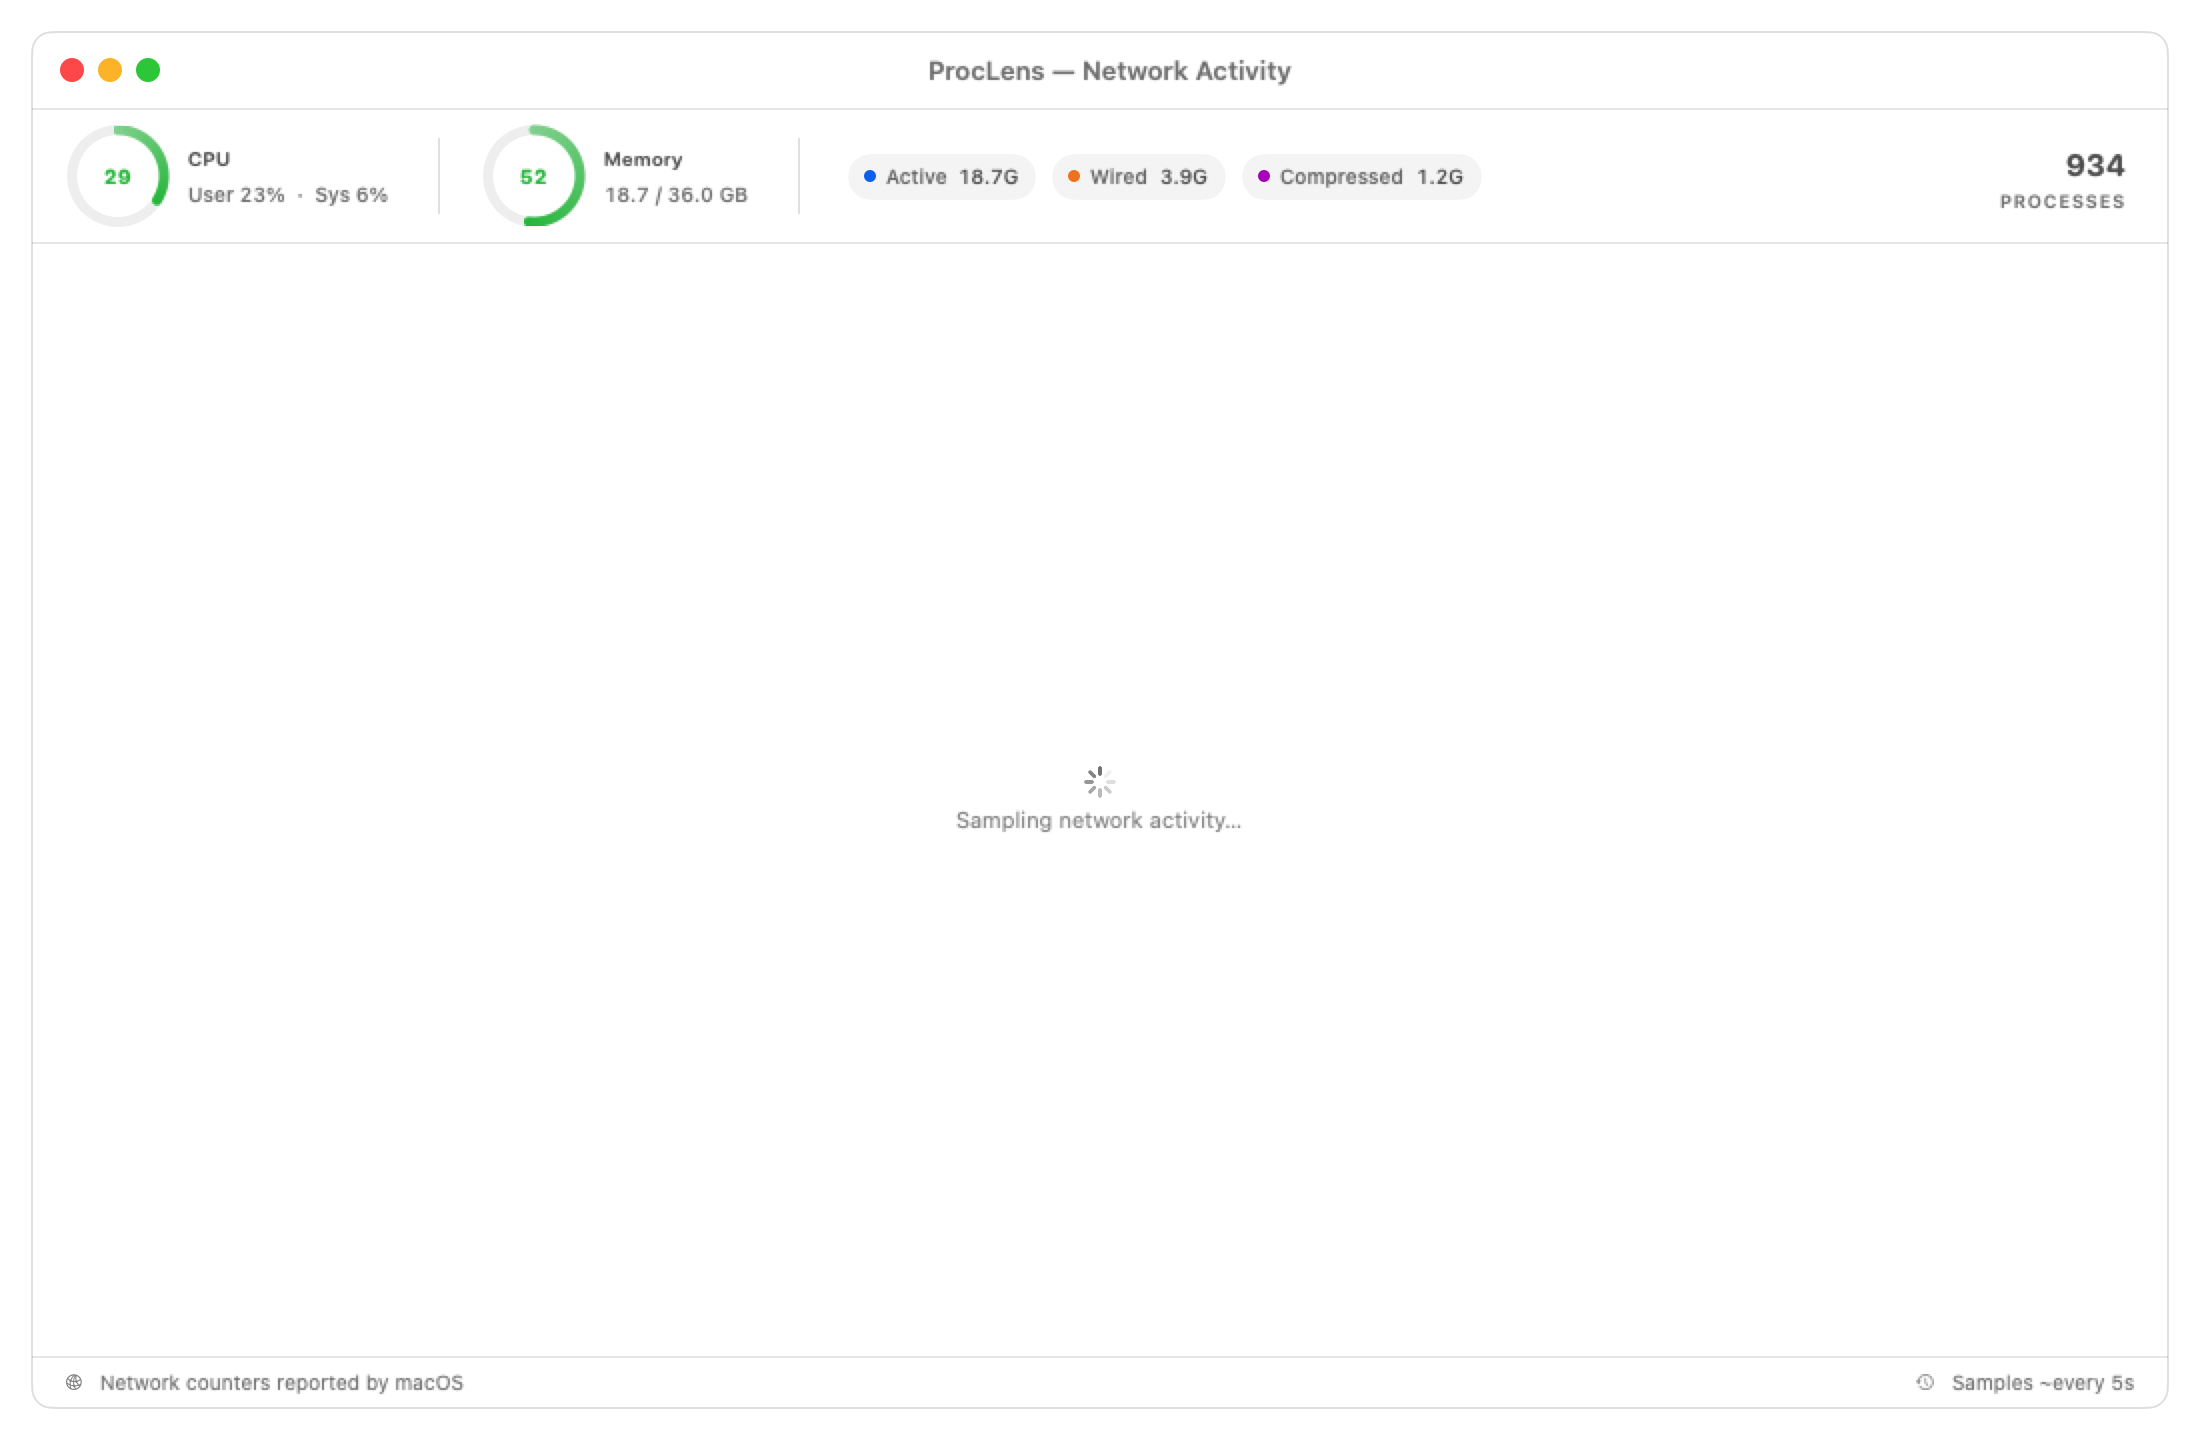
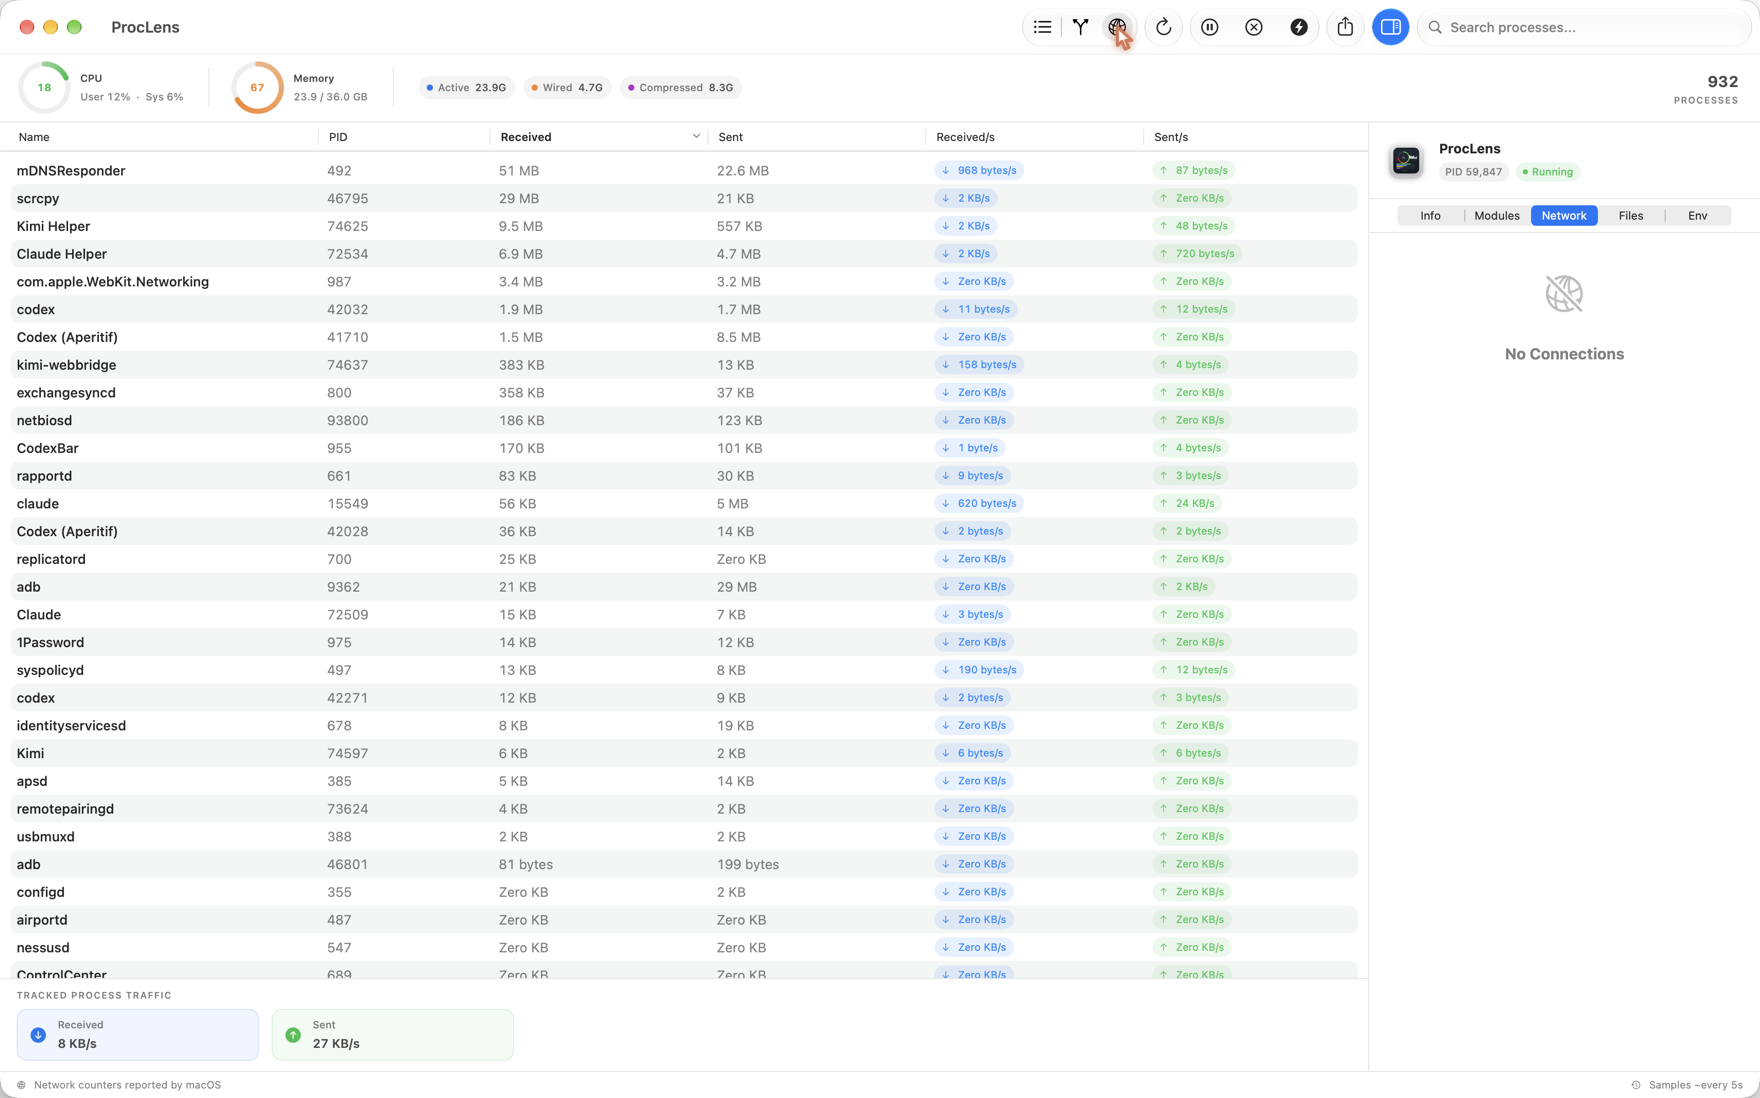
Rewrite README with fresh screenshots for ProcLens 1.1.7
Replaces the screenshots with current captures (inspector panel,
expanded process tree, network activity) and rewrites the feature
table and install/usage notes to match the native column
customization and Modules tab added since the last pass.

diff --git a/README.md b/README.md
@@ -5,7 +5,7 @@
 <h1 align="center">ProcLens</h1>
 
 <p align="center">
-  <strong>macOS Process Monitor</strong> — inspired by Process Hacker
+  <strong>A native macOS process monitor</strong> — inspired by Process Hacker
 </p>
 
 <p align="center">
@@ -16,68 +16,68 @@
 </p>
 
 <p align="center">
-  <img src="docs/screenshots/proclens-main.png" width="880" alt="ProcLens Main Interface">
+  <img src="docs/screenshots/proclens-main.png" width="880" alt="ProcLens process list with the inspector panel open">
 </p>
 
 ---
 
-Native SwiftUI app for real-time process monitoring on macOS. View, search, sort, suspend, kill, and inspect every process running on your Mac.
+ProcLens watches every process on your Mac in real time: CPU and memory history, network throughput, disk I/O, open files, loaded modules, code signature, and more — in a single fast, native window. View, search, sort, suspend, kill, and inspect any process without touching Terminal.
 
 ## Screenshots
 
 <p align="center">
-  <img src="docs/screenshots/proclens-tree.png" width="880" alt="ProcLens Process Tree View">
+  <img src="docs/screenshots/proclens-tree.png" width="880" alt="ProcLens process tree view with launchd and its children expanded">
 </p>
-<p align="center"><em>Process Tree View: Hierarchical parent-child relationship with full column sorting</em></p>
+<p align="center"><em>Process Tree — parent/child hierarchy, with the inspector showing a selected process's CPU and memory history</em></p>
 
 <br>
 
 <p align="center">
-  <img src="docs/screenshots/proclens-network.png" width="880" alt="ProcLens Network Activity Monitor">
+  <img src="docs/screenshots/proclens-network.png" width="880" alt="ProcLens network activity view with per-process throughput">
 </p>
-<p align="center"><em>Network Activity: Real-time throughput rates, bandwidth sparklines, and socket metrics</em></p>
+<p align="center"><em>Network Activity — live received/sent rates per process, plus combined throughput graphs</em></p>
 
 ## Features
 
 | Feature | Description |
 |---------|-------------|
-| **Process List** | Sortable columns · PID, Name, CPU %, Memory, Received, Sent, User, Threads, Status, Ports, Arch, Disk Read, Disk Write, Uptime, Signature, PPID |
-| **Customizable Columns** | Right-click any column header to show or hide columns, drag a header to reorder it, or drag a divider to resize it |
-| **Sparkline Graphs** | Real-time CPU history per process, inline in the table |
-| **Process Tree** | Same customizable columns as List, in a hierarchical parent-child view. Click a header to sort siblings and click again to reverse the order. Click the disclosure arrow next to `launchd` (PID 1) to expand it |
-| **Subprocesses** | Double-click a process in List or Tree, or right-click and choose **Show Subprocesses**, to open a resizable window |
-| **Inspector Panel** | Info (Signature, Entitlements, Launch Origin), Modules (`vmmap`), Network, Files, and Env tabs load for the selected process |
+| **Process List & Tree** | PID, Name, CPU %, Memory, Received, Sent, User, Threads, Status, Ports, Arch, Disk Read, Disk Write, Uptime, Signature, and PPID — sortable, and shared between the flat List and hierarchical Tree views |
+| **Customizable Columns** | Right-click any column header for a native show/hide menu, drag a header to reorder it, or drag a divider to resize it — order and visibility are remembered per view |
+| **Sparkline Graphs** | Real-time CPU history per process, inline in the table and in the inspector |
+| **Process Tree** | Parent/child hierarchy rooted at `launchd`. Click a header to sort siblings; click again to reverse. Click a disclosure arrow to expand a branch |
+| **Subprocesses** | Double-click a process, or right-click → **Show Subprocesses**, to open its children in a resizable window |
+| **Inspector Panel** | **Info** (status, architecture, code signature, team ID, launch origin, priority), **Modules** (loaded frameworks via `vmmap`, with click-to-copy full paths), **Network**, **Files**, and **Env** tabs for the selected process |
 | **Network Connections** | Per-process TCP/UDP connections and listening ports |
-| **Network Activity** | Sort processes by bytes received or sent and view live transfer rates for processes reported by macOS |
-| **Open Files** | All file descriptors with search filter |
-| **Environment Variables** | Full env dump per process with search |
-| **Process Context Menu** | Right-click a live process in List, Tree, or Network to show subprocesses, copy PID/name/path, reveal its executable in Finder, suspend/resume, terminate, or force kill |
-| **Suspend / Resume** | SIGSTOP / SIGCONT from toolbar or right-click menu |
-| **Kill Process** | SIGTERM or SIGKILL with confirmation dialog |
-| **Priority Control** | Adjust nice value with a slider |
-| **Export CSV** | Export full process list to CSV |
-| **Dark / Light Theme** | System, Light, or Dark — switchable from menu bar |
-| **Real App Icons** | Displays the app bundle icon for apps and their bundled executables |
+| **Network Activity** | A dedicated view sorted by throughput, with live received/sent rates for every process macOS reports |
+| **Open Files** | Every file descriptor held by a process, with a search filter |
+| **Environment Variables** | Full environment dump per process, with search |
+| **Process Context Menu** | Right-click any process to show its subprocesses, copy PID/name/path, reveal it in Finder, suspend/resume, terminate, or force kill |
+| **Suspend / Resume** | SIGSTOP / SIGCONT from the toolbar or the right-click menu |
+| **Kill Process** | SIGTERM or SIGKILL, with a confirmation dialog |
+| **Priority Control** | Adjust a process's nice value with a slider |
+| **Export CSV** | Export the full process list for offline analysis |
+| **Dark / Light Theme** | System, Light, or Dark, switchable from the menu bar |
+| **Real App Icons** | Shows the actual app bundle icon for apps and their bundled helper executables |
 | **Search** | Filter processes by name, PID, user, or path |
 
 ## Network usage
 
 - In **List** and **Tree**, **Received** and **Sent** show cumulative bytes per process. Click a column header to sort.
-- Open **Network** and look at **Received/s** and **Sent/s** for transfer speeds. The graphs below show combined rates for the processes that macOS reports through `nettop`.
-- A dash indicates missing data. Rates appear after two samples. A zero rate means the counter did not increase during the measured interval.
-- Select a process and open **Network** in the Inspector to see its TCP and UDP connections.
+- Open **Network** and look at **Received/s** and **Sent/s** for live transfer speeds. The graphs below the table show combined rates for every process macOS reports through `nettop`.
+- A dash means no data is available yet. Rates appear after two samples; a zero rate means the counter didn't increase during the sampling interval.
+- Select a process and open the **Network** inspector tab to see its individual TCP and UDP connections.
 
 ## Install
 
 ### Download
 
-Grab the latest DMG from [Releases](https://github.com/NonBytes/ProcLens/releases/latest), open it, and drag **ProcLens** to **Applications**.
+Grab the latest DMG from [Releases](https://github.com/NonBytes/ProcLens/releases/latest), open it, and drag **ProcLens** into **Applications**.
 
-New builds target Apple Silicon. [ProcLens v1.0.2](https://github.com/NonBytes/ProcLens/releases/tag/v1.0.2) is the last release for Intel Macs and includes both Intel and Apple Silicon binaries. The DMG contains an ad hoc signed app without Apple notarization.
+New builds target Apple Silicon only. [ProcLens v1.0.2](https://github.com/NonBytes/ProcLens/releases/tag/v1.0.2) is the last release with an Intel binary. The DMG contains an ad-hoc signed app without Apple notarization — on first launch, right-click the app and choose **Open** to bypass Gatekeeper.
 
 ### Build from source
 
-Requires Xcode 16 or later. Open the checked-in Xcode project and build and run with `⌘R`.
+Requires Xcode 16 or later.
 
 ```bash
 git clone https://github.com/NonBytes/ProcLens.git
@@ -85,7 +85,7 @@ cd ProcLens
 open ProcLens.xcodeproj
 ```
 
-Use [XcodeGen](https://github.com/yonaskolb/XcodeGen) to regenerate the project when editing `project.yml`. Pushing a new version tag triggers the GitHub Actions workflow that builds and publishes the Apple Silicon DMG.
+Build and run with `⌘R`. Use [XcodeGen](https://github.com/yonaskolb/XcodeGen) to regenerate `ProcLens.xcodeproj` after editing `project.yml`. Pushing a `vX.Y.Z` tag triggers the GitHub Actions workflow that builds and publishes the Apple Silicon DMG.
 
 ## Keyboard Shortcuts
 
@@ -97,7 +97,7 @@ Use [XcodeGen](https://github.com/yonaskolb/XcodeGen) to regenerate the project 
 ## Requirements
 
 - macOS 14.4 (Sonoma) or later
-- Apple Silicon Mac. Intel Macs can use v1.0.2.
+- Apple Silicon Mac — Intel Macs can use [v1.0.2](https://github.com/NonBytes/ProcLens/releases/tag/v1.0.2)
 
 ## Architecture
 
@@ -116,10 +116,11 @@ ProcLens/
 
 ## Tech Stack
 
-- **SwiftUI** + **@Observable** (macOS 14 Observation framework)
+- **SwiftUI** + **@Observable** (macOS 14 Observation framework), with native `Table` + `TableColumnCustomization` for the process views
 - **Darwin APIs** — `sysctl`, `proc_pidinfo`, `proc_listallpids`, `host_processor_info`
 - **lsof** — network connections and open files (on-demand)
 - **nettop** — per-process network byte counters
+- **vmmap** — loaded modules for the Modules inspector tab
 - **KERN_PROCARGS2** — environment variable extraction
 
 ## License
